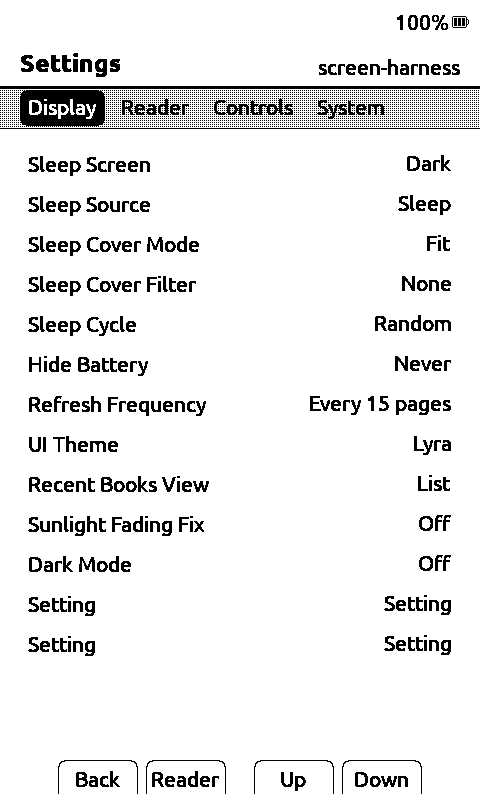
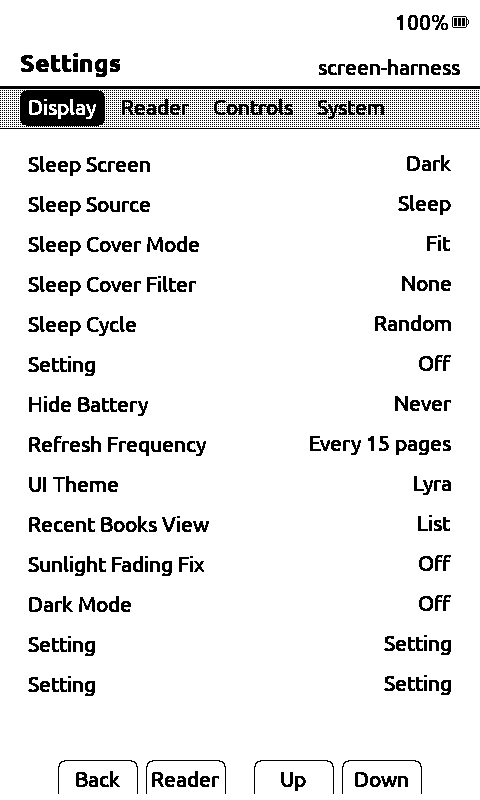
Screen harness: add haiku clock preview (#18)
- drawSleepHaikuClockMock() mirrors the real renderHaikuClockSleepScreen
  layout (vertically centred 3-line block, proportional gap, font cascade)
- added NOTOSERIF_14_FONT_ID as a fallback in the haiku render path so
  the preview (and any device without a NotoSans 18 font) gets a nice
  14px serif face instead of falling all the way to UI_12
- scenario 18_sleep_haiku_clock added to harness scenarios vector
- write_preview_manifest.py: new entry 'Sleep - Haiku Clock'
- 18_sleep_haiku_clock.png generated and committed
- manifest.json regenerated

diff --git a/tools/screen-harness/main.cpp b/tools/screen-harness/main.cpp
@@ -520,6 +520,43 @@ void drawSleepRomanClockMock(GfxRenderer& renderer, const std::string& labelText
   renderer.displayBuffer(HalDisplay::HALF_REFRESH);
 }
 
+void drawSleepHaikuClockMock(GfxRenderer& renderer) {
+  renderer.clearScreen();
+
+  const int W = renderer.getScreenWidth();
+  const int H = renderer.getScreenHeight();
+
+  // Mirror the font cascade used by renderHaikuClockSleepScreen.
+  int fontId = UI_12_FONT_ID;
+  if (renderer.getFontMap().count(NOTOSANS_18_FONT_ID)) {
+    fontId = NOTOSANS_18_FONT_ID;
+  } else if (renderer.getFontMap().count(LEXENDDECA_18_FONT_ID)) {
+    fontId = LEXENDDECA_18_FONT_ID;
+  } else if (renderer.getFontMap().count(NOTOSANS_16_FONT_ID)) {
+    fontId = NOTOSANS_16_FONT_ID;
+  } else if (renderer.getFontMap().count(NOTOSERIF_18_FONT_ID)) {
+    fontId = NOTOSERIF_18_FONT_ID;
+  } else if (renderer.getFontMap().count(NOTOSERIF_14_FONT_ID)) {
+    fontId = NOTOSERIF_14_FONT_ID;
+  }
+
+  const char* line1 = "Time is a shadow,";
+  const char* line2 = "Moving across the deep sky,";
+  const char* line3 = "Waiting for the sun.";
+
+  const int lineHeight = renderer.getLineHeight(fontId);
+  const int gap = lineHeight / 2;
+  const int totalBlockH = 3 * lineHeight + 2 * gap;
+  const int startY = std::max(H / 8, (H - totalBlockH) / 2);
+  const int startX = W / 10;
+
+  renderer.drawText(fontId, startX, startY, line1, true, EpdFontFamily::BOLD);
+  renderer.drawText(fontId, startX, startY + lineHeight + gap, line2, true, EpdFontFamily::BOLD);
+  renderer.drawText(fontId, startX, startY + (lineHeight + gap) * 2, line3, true, EpdFontFamily::BOLD);
+
+  renderer.displayBuffer(HalDisplay::HALF_REFRESH);
+}
+
 void drawFeatureStoreMock(GfxRenderer& renderer) {
   renderer.clearScreen();
   renderer.drawCenteredText(UI_12_FONT_ID, 15, "Update", true, EpdFontFamily::BOLD);
@@ -625,6 +662,7 @@ int main(int argc, char* argv[]) {
       {"15_sleep_custom", [&] { drawSleepCustomMock(renderer); }},
       {"16_sleep_transparent", [&] { drawSleepTransparentMock(renderer); }},
       {"17_sleep_roman_clock", [&] { drawSleepRomanClockMock(renderer, "XII:III"); }},
+      {"18_sleep_haiku_clock", [&] { drawSleepHaikuClockMock(renderer); }},
   };
 
   for (const auto& [name, render] : scenarios) {

diff --git a/src/activities/boot_sleep/SleepActivity.cpp b/src/activities/boot_sleep/SleepActivity.cpp
@@ -1086,6 +1086,8 @@ void SleepActivity::renderHaikuClockSleepScreen() const {
     fontId = NOTOSANS_16_FONT_ID;
   } else if (renderer.getFontMap().count(NOTOSERIF_18_FONT_ID)) {
     fontId = NOTOSERIF_18_FONT_ID;
+  } else if (renderer.getFontMap().count(NOTOSERIF_14_FONT_ID)) {
+    fontId = NOTOSERIF_14_FONT_ID;
   }
 
   const int lineHeight = renderer.getLineHeight(fontId);

diff --git a/tools/screen-harness/write_preview_manifest.py b/tools/screen-harness/write_preview_manifest.py
@@ -26,6 +26,7 @@ PREVIEW_SPECS = [
     {"stem": "15_sleep_custom", "label": "Sleep - Custom Image"},
     {"stem": "16_sleep_transparent", "label": "Sleep - Transparent"},
     {"stem": "17_sleep_roman_clock", "label": "Sleep - Roman Clock"},
+    {"stem": "18_sleep_haiku_clock", "label": "Sleep - Haiku Clock"},
 ]
 
 HOME_THEME_PREVIEWS = {
